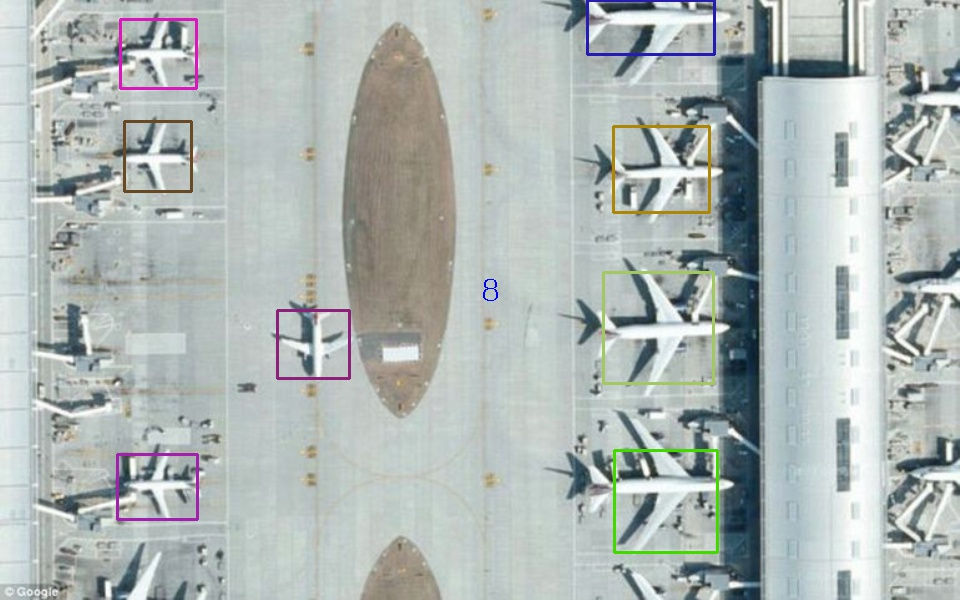
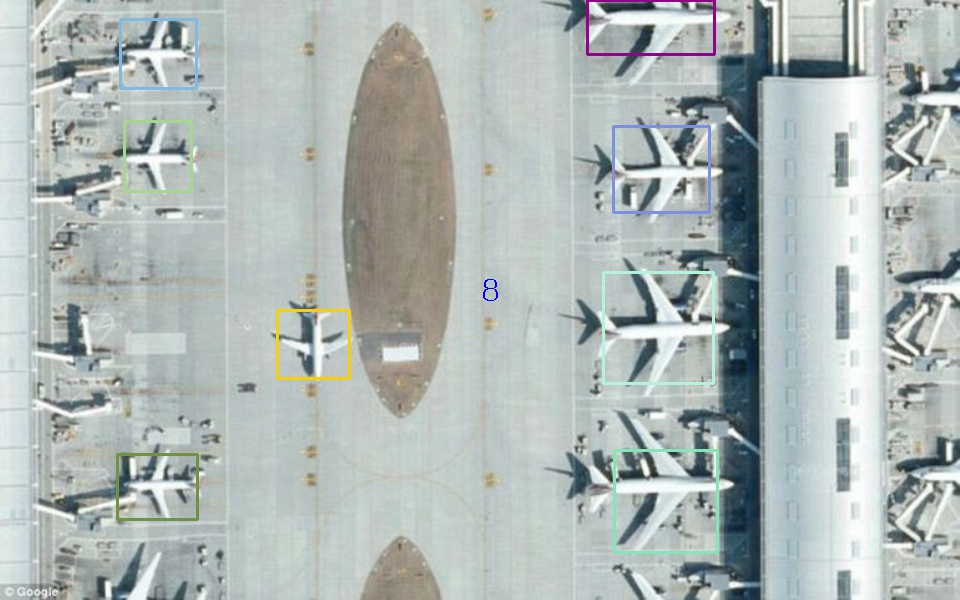
Update

diff --git a/libs/configs/cfgs.py b/libs/configs/cfgs.py
@@ -47,9 +47,9 @@ ROI_SIZE = 14
 ROI_POOL_KERNEL_SIZE = 2
 USE_DROPOUT = False
 KEEP_PROB = 0.5
-FAST_RCNN_NMS_IOU_THRESHOLD = 0.55
+FAST_RCNN_NMS_IOU_THRESHOLD = 0.2
 FAST_RCNN_NMS_MAX_BOXES_PER_CLASS = 100
-FINAL_SCORE_THRESHOLD = 0.8
+FINAL_SCORE_THRESHOLD = 0.5
 FAST_RCNN_IOU_POSITIVE_THRESHOLD = 0.45
 FAST_RCNN_MINIBATCH_SIZE = 256
 FAST_RCNN_POSITIVE_RATE = 0.5

diff --git a/tools/inference_result/README.md b/tools/inference_result/README.md
@@ -1,5 +1,15 @@
 # Test results stored here.
-![05](0_fpn.jpg) 
-![06](1_fpn.jpg) 
-![07](2_fpn.jpg)    
-![08](3_fpn.jpg)    
+![05](sample.tif_fpn_fpn.jpg) 
+![06](sample1.tif_fpn_fpn.jpg) 
+![07](sample2.tif_fpn_fpn.jpg) 
+![08](sample3.tif_fpn_fpn.jpg) 
+![09](sample4.tif_fpn_fpn.jpg) 
+![10](sample5.tif_fpn_fpn.jpg) 
+![11](sample6.tif_fpn_fpn.jpg) 
+![12](sample7.tif_fpn_fpn.jpg) 
+![13](sample8.tif_fpn_fpn.jpg) 
+![14](sample9.tif_fpn_fpn.jpg) 
+![15](sample10.tif_fpn_fpn.jpg) 
+![16](sample11.tif_fpn_fpn.jpg) 
+![17](sample112.tif_fpn_fpn.jpg) 
+  
